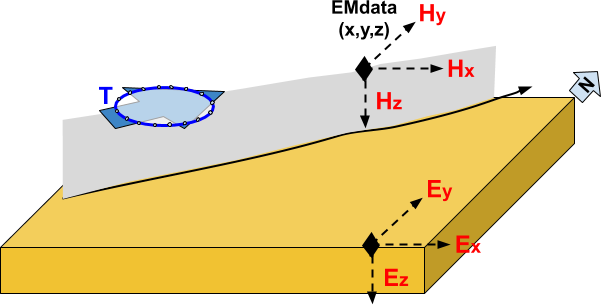
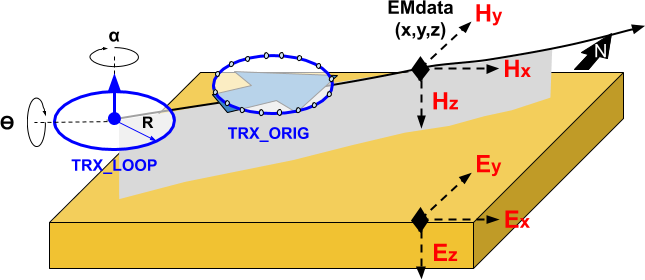
Continue update on EM data classes

diff --git a/content/objectFunctionality/data/em/dataType.rst b/content/objectFunctionality/data/em/dataType.rst
@@ -2,65 +2,36 @@
 
 .. include:: <isonum.txt>
 
-FEM Data Objects
-================
+EM Data Classes
+===============
 
-There are two main types of EM data that can be created in GIFtools:
-
- - :ref:`EMdata <objectEMdtype_FEMdata>`: Used by the original `E3Dv1 inversion <https://e3d.readthedocs.io/en/e3dinv/content/files/obsFile.html#observations-file>`_
- - :ref:`EMsounding <objectEMdtype_FEMsounding>`: Used by the `EM1DFM <https://em1dfm.readthedocs.io/en/latest/#em1dfm-package>`_ and the latest `E3Dv2 inversion <https://e3d.readthedocs.io/en/e3dinv_ver2_tiled/index.html#e3d-version-2-tiled-package>`_
+There are two main types of EM data that can be created in GIFtools.
 
 
 .. _objectEMdtype_FEMdata:
 
-FEMdata
-^^^^^^^
+EMdata
+^^^^^^
 
-in the original `E3Dv1 inversion
-<https://e3d.readthedocs.io/en/e3dinv/content/files/obsFile.html#observations-file>`_
-code, only the transmitters geometry needs to be defined. Receivers are
-assumed to be point measurements of the fields (E, H) along the Cartesian directions.
+Data class used for:
+
+-  `E3Dv1 <https://e3d.readthedocs.io/en/e3dinv/content/files/obsFile.html#observations-file>`_,
+- ``H3DTD``
+- ``TDoctree_v1``
+
+The receivers are assumed to be point measurements of the fields (E, H) along
+the Cartesian directions. Transmitters can be defined as
+
+- **TRX_LOOP:** Simple loop
+	- Radius of the transmitter
+	- :math:`\theta` angle from vertical (0=planar loop)
+	- :math:`\alpha` (azimuthal) angle from North
+- **TRX_ORIG:** Defined by vertices
+	- For purely inductive source, the first and last entry must be the same in order to close the wire path.
 
 .. figure:: ../../../../images/object/data/em/EMdata.png
     :align: center
     :scale: 75%
-
-
-.. _objectEMaddTx:
-
-Add Transmitters
-----------------
-
-Here, the user may specify the transmitter locations
-and properties based on the data locations.
-
-Select the object and the menu **"data type menu"** |rarr| **Add transmitters**
-
-
-.. figure:: ../../../../images/object/data/em/addTransmitters.png
-    :align: center
-    :width: 400
-
-
-.. figure:: ../../../../images/object/data/em/PitchRollYaw.png
-    :align: center
-    :scale: 100%
-
-
-.. important:: Make sure you have :ref:`set i/o headers<objectSetioHeaders>` for the xyz-data locations. This functionality computes the transmitter locations based on the i/o headers.
-
-
-
-.. _objectEMremoveTx:
-
-Remove Transmitters
--------------------
-
-This functionality allows the user to remove transmitter information from the data object.
-
-Select the object and the menu **"data type menu"** |rarr| **Remove transmitters**
-
-
 
 
 .. _objectEMdtype_FEMsounding:
@@ -68,33 +39,24 @@ Select the object and the menu **"data type menu"** |rarr| **Remove transmitters
 EMsounding
 ^^^^^^^^^^
 
-For FEM and TEM soundings (for use in the 1D codes), the receiver locations are set **relative to the transmitter locations**. The following parameters are set:
+Both the transmitter and receiver locations are required and used in the forward and inverse problems. This is the most general format that allows to store raw data collected along line.
 
-.. figure:: ../../../../images/object/data/em/create_FEM_Tx_Rx.png
-    :align: center
-    :scale: 75%
-
-
-.. _objectEMaddRx:
-
-Add Receivers
--------------
-
-See the :ref:`Add Transmitter <objectEMaddTx>` function.
-
-
-.. _objectEMdtype_FEM1Dsounding:
 
 1Dsounding
 ----------
 
-	- **Receiver:** The dipole moment is set in units :math:`Am^2`
-	- **Normal angle from vertical:** Can be defined as a constant value in degrees (0 implies vertical dipole moment) or it can be specified by a data column
-	- **Azimuth angle from North:** Clockwise angle in degrees for the dipole moment. Can be set as a constant value or from a data column. Can be set relative to North or relative to the along-line bearing
-	- **Bearing:** Bearing sets azimuth angle for the survey in-line direction. If this angle does not exist in a data column, it can be calculate automatically
+- `EM1DFM <https://em1dfm.readthedocs.io/en/latest/#em1dfm-package>`_,
+- `EM1DTM <https://em1dtm.readthedocs.io/en/latest/#em1dtm-package>`_
+
+For `EM1Dsounding` objects, the position of the receiver is set **relative to the transmitter locations**. The following parameters are required:
+
 	- **Along-line offset:** The along-line position of receivers, **relative to transmitter locations**
 	- **Cross-line offset:** The cross-line position of receivers, **relative to transmitter locations**
 	- **Vertical offset:** The vertical location of the receivers relative to the surface
+
+.. figure:: ../../../../images/object/data/em/create_FEM_Tx_Rx.png
+    :align: center
+    :scale: 75%
 
 
 .. _objectEMdtype_FEM3Dsounding:
@@ -102,101 +64,15 @@ See the :ref:`Add Transmitter <objectEMaddTx>` function.
 3Dsounding
 ----------
 
+This data class is use for:
+
+- `E3Dv2 tiled <https://e3d.readthedocs.io/en/e3dinv_ver2_tiled/index.html#e3d-version-2-tiled-package>`_
+- ``TDoctreev2 tiled``
+
+For `EM3Dsounding` objects, information about the position and orientation of the system are stored directly by the transmitter and receiver objects.
+
 .. figure:: ../../../../images/object/data/em/EM3DSoundingOffsets.png
     :align: center
     :scale: 75%
-
-
-
-.. _objectEMwaveform:
-
-Waveform (TDEM objects only)
-----------------------------
-
-Here, we describe functionality related to defining, viewing and exporting waveforms for TEM data objects. This functionality is accessed through:
-
-**data type menu** |rarr| **Waveform**
-
-
-.. _objectEMwaveform_exp:
-
-Create Exponent On - Ramp Off
-^^^^^^^^^^^^^^^^^^^^^^^^^^^^^
-
-Here, the user defines an exponential ramp-on linear ramp-off waveform and sets it to the selected TEM data object. This functionality is accessed through:
-
-**data type menu** |rarr| **Waveform** |rarr| **Create exponent on; ramp off**
-
-The parameters defining this waveform are as follows:
-
-	- **minimum time:** the starting time for the waveform (in seconds). This time **must** be before your first time channel
-	- **maximum time:** the end time for the waveform (in seconds). This time **must** be after your latest time channel
-	- **time = 0:** the shut-off time
-	- **Number of segments:** Number of intervals after t0 which use a different time-step length
-	- **Samples per segment:** Number of linearly sampled points which define the time-step length in each segment
-	- **Exponent slope:** The constant :math:`\alpha` defining the exponential ramp on
-	- **Exponent time:** The duration of the exponential ramp on
-	- **Number of exp samples:** Number of data points, linearly sampled, defining the waveform during the exponential ramp on
-	- **Ramp time:** The duration of the linear ramp off
-	- **Number of ramp samples:** Number of data points, linearly sampled, defining the waveform during the linear ramp off
-
-
-
-.. _objectEMwaveform_stepoff:
-
-Create Step Off
-^^^^^^^^^^^^^^^
-
-Here, the user defines a step-off waveform and sets it to the selected TEM data object. This functionality is accessed through:
-
-**data type menu** |rarr| **Waveform** |rarr| **Create step off**
-
-The parameters defining this waveform are as follows:
-
-	- **minimum time:** the starting time for the waveform (in seconds). This time **must** be before your first time channel
-	- **maximum time:** the end time for the waveform (in seconds). This time **must** be after your latest time channel
-	- **time = 0:** the shut-off time
-	- **Number of segments:** Number of intervals after t0 which use a different time-step length
-	- **Samples per segment:** Number of linearly sampled points which define the time-step length in each segment
-
-
-
-.. _objectEMwaveform_import:
-
-Import a Waveform
-^^^^^^^^^^^^^^^^^
-
-Here, the user imports a custom waveform from a text file and sets it to the selected TEM data object. This functionality is accessed through:
-
-**data type menu** |rarr| **Waveform** |rarr| **Import (3D format)**
-
-
-.. _objectEMwaveform_view:
-
-View
-^^^^
-
-Here, the user may look at the waveform assigned to the selected TEM data object. This functionality is accessed through:
-
-**data type menu** |rarr| **Waveform** |rarr| **View**
-
-.. _objectEMwaveform_1D:
-
-Export for 1D
-^^^^^^^^^^^^^
-
-Here, the user may export the waveform in the format used by the EM1DTM code. This functionality is accessed through:
-
-**data type menu** |rarr| **Waveform** |rarr| **Export for 1D**
-
-
-.. _objectEMwaveform_3D:
-
-Export for 3D
-^^^^^^^^^^^^^
-
-Here, the user may export the waveform in the format used by 3D codes. This functionality is accessed through:
-
-**data type menu** |rarr| **Waveform** |rarr| **Export for 3D**
 
 

diff --git a/content/objectFunctionality/data/em/dataManipulation.rst b/content/objectFunctionality/data/em/dataManipulation.rst
@@ -116,3 +116,158 @@ Calculate Transmitter-Receiver seperation
 
 This function computes the in-line, cross-line and vertical seperation between the transmitter and receiver for each datum.
 
+
+.. _objectEMaddTx:
+
+Add Transmitters
+----------------
+
+Here, the user may specify the transmitter locations
+and properties based on the data locations.
+
+.. figure:: ../../../../images/object/data/em/addTransmitters.png
+    :align: center
+    :width: 400
+
+
+Select the object: **"data type menu"** |rarr| **Add transmitters**
+
+- Transmitter geometry
+    - **From File:** Lets the user import a template geometry (XYZ coordinates) defining the transmitter coil.
+    - **Loop:** Defines a simple loop transmitter with radius set by the user.
+    - **Dipole:** Defines a dipole transmitter with moment set by the user (for EM1Dinversion)
+- Bearing
+    - **Calculate:**  Let GIFtools determine the bearing of survey lines. Assumes that the survey points are sorted in order of acquisition.
+    - **From data object:** Bearing already supplied by the data object.
+- Offsets relative to bearing (XYZ)
+    - **Along-line offset:** Distance along the survey lines between the data location and transmitter
+    - **Cross-line offset:** Distance perpendicular to the survey lines between the data location and transmitter
+    - **Vertical offset:** Elevation difference between the data location and transmitter. For the :ref:`EM1Dsounding <objectEMdtype_FEM1Dsounding>` class, the offset is relative to the ground.
+- Rotation angles
+    - **Relative to bearing:** Apply the rotation angles relative to the flight line orientation. Otherwise angles are relative to the Cartesian grid.
+    - **Pitch angle:** Rotation angle about the wings of the bird. Positive angle moves the nose up, tail down.
+    - **Roll angle:** Rotation angle about the length of the bird. Positive angle moves the left wing up, right wing down.
+    - **Yaw angle:** Rotation angle about the XY plane. Positive angle rotates the bird clockwise.
+
+
+.. figure:: ../../../../images/object/data/em/PitchRollYaw.png
+    :align: center
+    :scale: 100%
+
+
+.. important:: Make sure you have :ref:`set i/o headers<objectSetioHeaders>` for the xyz-data locations. This functionality computes the transmitter locations based on the i/o headers.
+
+
+
+.. _objectEMremoveTx:
+
+Remove Transmitters
+-------------------
+
+This functionality allows the user to remove transmitter information from the data object.
+
+Select the object and the menu **"data type menu"** |rarr| **Remove transmitters**
+
+
+.. _objectEMaddRx:
+
+Add Receivers
+-------------
+
+See the :ref:`Add Transmitter <objectEMaddTx>` function.
+
+
+.. _objectEMdtype_FEM1Dsounding:
+
+.. _objectEMwaveform:
+
+Waveform (TDEM objects only)
+----------------------------
+
+Here, we describe functionality related to defining, viewing and exporting waveforms for TEM data objects. This functionality is accessed through:
+
+**data type menu** |rarr| **Waveform**
+
+
+.. _objectEMwaveform_exp:
+
+Create Exponent On - Ramp Off
+^^^^^^^^^^^^^^^^^^^^^^^^^^^^^
+
+Here, the user defines an exponential ramp-on linear ramp-off waveform and sets it to the selected TEM data object. This functionality is accessed through:
+
+**data type menu** |rarr| **Waveform** |rarr| **Create exponent on; ramp off**
+
+The parameters defining this waveform are as follows:
+
+    - **minimum time:** the starting time for the waveform (in seconds). This time **must** be before your first time channel
+    - **maximum time:** the end time for the waveform (in seconds). This time **must** be after your latest time channel
+    - **time = 0:** the shut-off time
+    - **Number of segments:** Number of intervals after t0 which use a different time-step length
+    - **Samples per segment:** Number of linearly sampled points which define the time-step length in each segment
+    - **Exponent slope:** The constant :math:`\alpha` defining the exponential ramp on
+    - **Exponent time:** The duration of the exponential ramp on
+    - **Number of exp samples:** Number of data points, linearly sampled, defining the waveform during the exponential ramp on
+    - **Ramp time:** The duration of the linear ramp off
+    - **Number of ramp samples:** Number of data points, linearly sampled, defining the waveform during the linear ramp off
+
+
+
+.. _objectEMwaveform_stepoff:
+
+Create Step Off
+^^^^^^^^^^^^^^^
+
+Here, the user defines a step-off waveform and sets it to the selected TEM data object. This functionality is accessed through:
+
+**data type menu** |rarr| **Waveform** |rarr| **Create step off**
+
+The parameters defining this waveform are as follows:
+
+    - **minimum time:** the starting time for the waveform (in seconds). This time **must** be before your first time channel
+    - **maximum time:** the end time for the waveform (in seconds). This time **must** be after your latest time channel
+    - **time = 0:** the shut-off time
+    - **Number of segments:** Number of intervals after t0 which use a different time-step length
+    - **Samples per segment:** Number of linearly sampled points which define the time-step length in each segment
+
+
+
+.. _objectEMwaveform_import:
+
+Import a Waveform
+^^^^^^^^^^^^^^^^^
+
+Here, the user imports a custom waveform from a text file and sets it to the selected TEM data object. This functionality is accessed through:
+
+**data type menu** |rarr| **Waveform** |rarr| **Import (3D format)**
+
+
+.. _objectEMwaveform_view:
+
+View
+^^^^
+
+Here, the user may look at the waveform assigned to the selected TEM data object. This functionality is accessed through:
+
+**data type menu** |rarr| **Waveform** |rarr| **View**
+
+.. _objectEMwaveform_1D:
+
+Export for 1D
+^^^^^^^^^^^^^
+
+Here, the user may export the waveform in the format used by the EM1DTM code. This functionality is accessed through:
+
+**data type menu** |rarr| **Waveform** |rarr| **Export for 1D**
+
+
+.. _objectEMwaveform_3D:
+
+Export for 3D
+^^^^^^^^^^^^^
+
+Here, the user may export the waveform in the format used by 3D codes. This functionality is accessed through:
+
+**data type menu** |rarr| **Waveform** |rarr| **Export for 3D**
+
+
